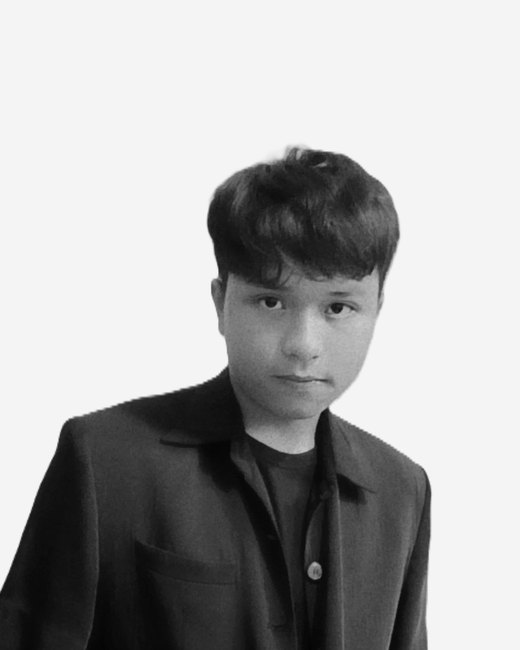
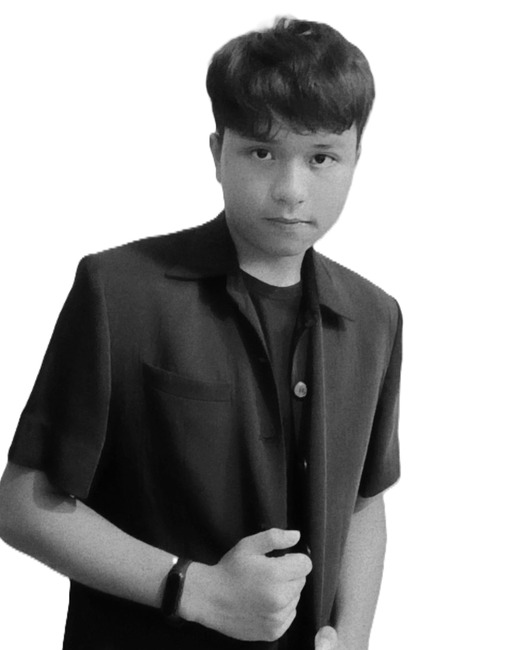
Kartu tim Private Model gaya Pemateri, samping berbadan
Kartu tim disusun ulang meniru pose acuan: Alvin di tengah lebih besar dan
tegak menonjol, Farras dan Andre di samping lebih kecil dan sedikit miring,
tiap foto diberi backing lime solid khas neubrutalism. Kontainer dilebarkan
kiri kanan supaya foto miring tidak mepet tepi.

Foto Farras dan Andre dipotong ulang lebih longgar sehingga badan terlihat
sampai pinggang, sementara Alvin tetap headshot rapat seperti tokoh tengah
pada acuan. Latar putih seragam.

diff --git a/frontend/style.css b/frontend/style.css
@@ -815,24 +815,45 @@ html, body {
 #about-card-team { display: none; }
 body.model-private .about-card:not(.about-card--team) { display: none; }
 body.model-private #about-card-team { display: flex; }
-.about-card--team { flex-direction: column; max-width: 560px; padding: 22px 20px 22px; gap: 16px; }
+.about-card--team { flex-direction: column; max-width: 588px; padding: 22px 38px 26px; gap: 18px; }
 .tm-head { display: flex; flex-direction: column; gap: 10px; }
-.tm-row { display: flex; align-items: flex-end; justify-content: center; gap: 8px; }
-.tm { flex: 1 1 0; min-width: 0; display: flex; flex-direction: column; }
-.tm--lead { flex: 1.2 1 0; }
-.tm-photo { border: var(--bw) solid var(--ink); box-shadow: var(--shadow-sm);
-  background: var(--paper); overflow: hidden; aspect-ratio: 4 / 5; }
-.tm--lead .tm-photo { box-shadow: var(--shadow); }
+
+/* Komposisi 'Pemateri' (referensipose): tengah besar & tegak menonjol, dua
+   samping lebih kecil & miring menyelip di belakang. Tiap foto punya backing
+   lime solid (bayangan keras khas neubrutalist). */
+.tm-row { display: flex; align-items: flex-end; justify-content: center; gap: 0;
+  padding-top: 28px; }
+.tm { flex: 1 1 0; min-width: 0; display: flex; flex-direction: column; margin: 0; }
+.tm-photo { border: var(--bw) solid var(--ink); background: var(--paper);
+  overflow: hidden; aspect-ratio: 4 / 5; }
 .tm-photo img { width: 100%; height: 100%; object-fit: cover; display: block;
   filter: grayscale(1) contrast(1.03); }
 .tm-name { font-family: var(--font-mono); font-weight: 700; font-size: 10px;
   letter-spacing: .01em; text-align: center; color: var(--ink); background: var(--lime);
   border: var(--bw) solid var(--ink); border-top: none; padding: 6px 4px; line-height: 1.15;
   min-height: 2.7em; display: flex; align-items: center; justify-content: center; }
+
+/* samping: kecil, miring, menyelip ke belakang tengah */
+.tm--side { flex: 0.9 1 0; z-index: 1; }
+.tm--side .tm-photo { box-shadow: 5px 5px 0 0 var(--lime); }
+.tm--left  { transform: rotate(-6deg); transform-origin: bottom center; margin-right: -14px; }
+.tm--right { transform: rotate(6deg);  transform-origin: bottom center; margin-left: -14px; }
+
+/* tengah: paling besar, tegak, terangkat, di depan, backing lebih tebal */
+.tm--lead { flex: 1.3 1 0; z-index: 3; transform: translateY(-16px); }
+.tm--lead .tm-photo { box-shadow: 8px 8px 0 0 var(--lime); }
+.tm--lead .tm-name { font-size: 11px; }
+
 @media (max-width: 560px) {
-  .about-card--team { max-width: 340px; max-height: 90vh; overflow-y: auto; padding: 16px; gap: 14px; }
-  .tm-row { gap: 7px; }
+  .about-card--team { max-width: 360px; max-height: 90vh; overflow-y: auto; padding: 16px 26px 22px; gap: 14px; }
+  .tm-row { padding-top: 22px; }
   .tm-name { font-size: 8.5px; padding: 5px 2px; min-height: 3em; }
+  .tm--lead .tm-name { font-size: 9.5px; }
+  .tm--left  { transform: rotate(-5deg); margin-right: -10px; }
+  .tm--right { transform: rotate(5deg);  margin-left: -10px; }
+  .tm--lead { transform: translateY(-11px); }
+  .tm--side .tm-photo { box-shadow: 4px 4px 0 0 var(--lime); }
+  .tm--lead .tm-photo { box-shadow: 6px 6px 0 0 var(--lime); }
 }
 
 /* Penanda "kamu di sini" (geolokasi) — badge bulat neubrutalist. */

diff --git a/frontend/index.html b/frontend/index.html
@@ -325,7 +325,7 @@
           <p class="about-intro">Private Model adalah prakiraan cuaca dari model WRF yang kami jalankan sendiri untuk seluruh Indonesia pada resolusi 9 km, lebih rinci daripada model global. Ia menyajikan angin, hujan, suhu, kelembapan, tekanan, dan tutupan awan hingga tiga hari ke depan, diperbarui otomatis setiap hari.</p>
         </div>
         <div class="tm-row">
-          <figure class="tm">
+          <figure class="tm tm--side tm--left">
             <div class="tm-photo"><img src="tim-farras.jpg" alt="Farras Ghaly" /></div>
             <figcaption class="tm-name">Farras Ghaly</figcaption>
           </figure>
@@ -333,7 +333,7 @@
             <div class="tm-photo"><img src="tim-alvin.jpg" alt="Alvin Pratama" /></div>
             <figcaption class="tm-name">Alvin Pratama</figcaption>
           </figure>
-          <figure class="tm">
+          <figure class="tm tm--side tm--right">
             <div class="tm-photo"><img src="tim-andre.jpg" alt="Andreas Boni Baik Simamora" /></div>
             <figcaption class="tm-name">Andreas Boni Baik Simamora</figcaption>
           </figure>
